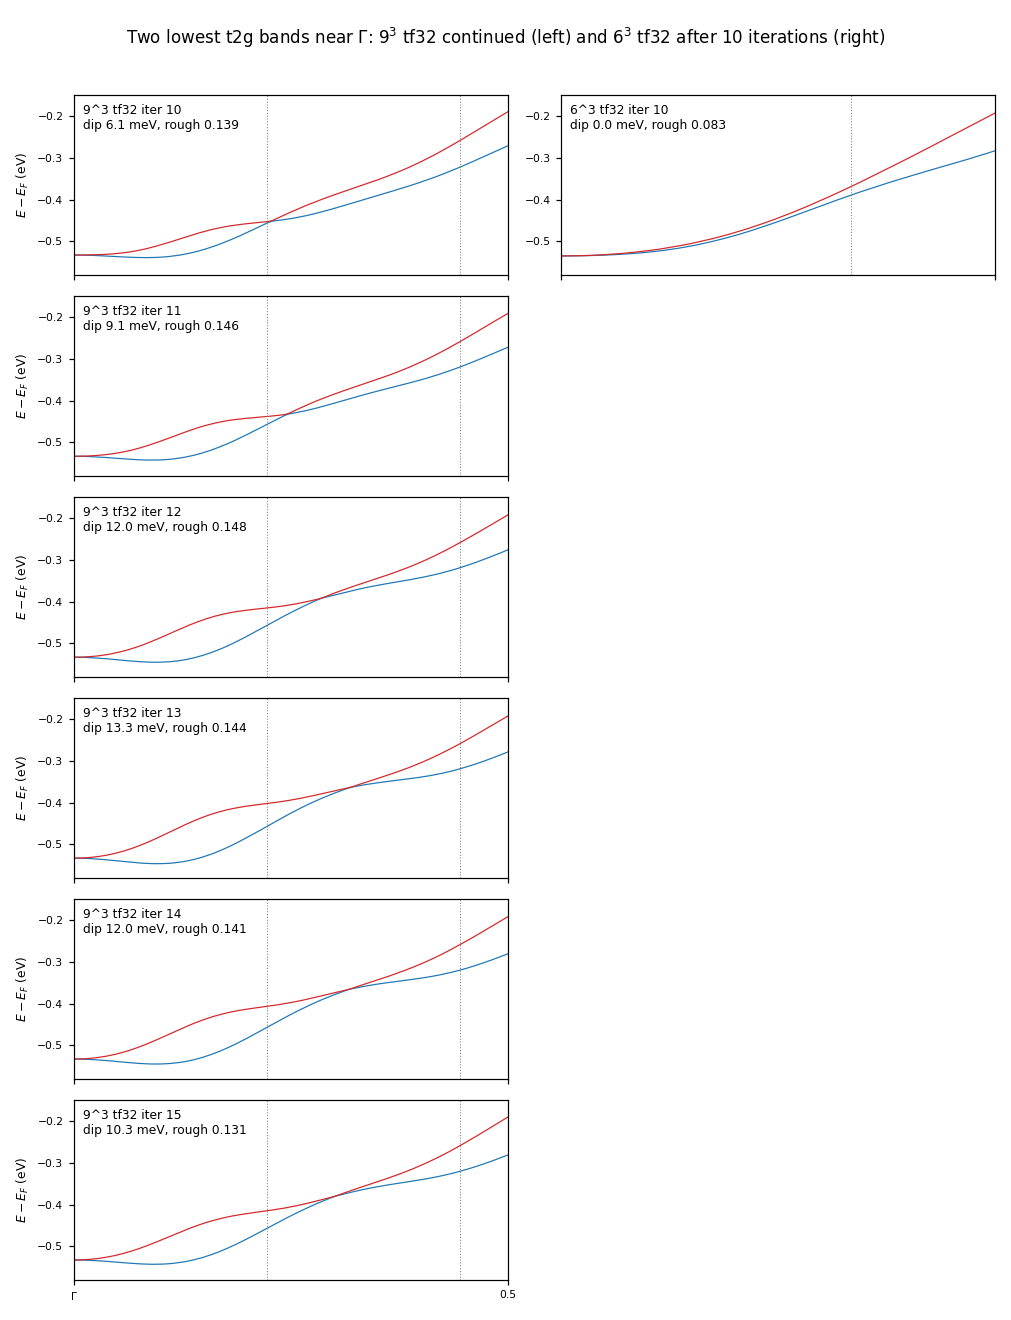
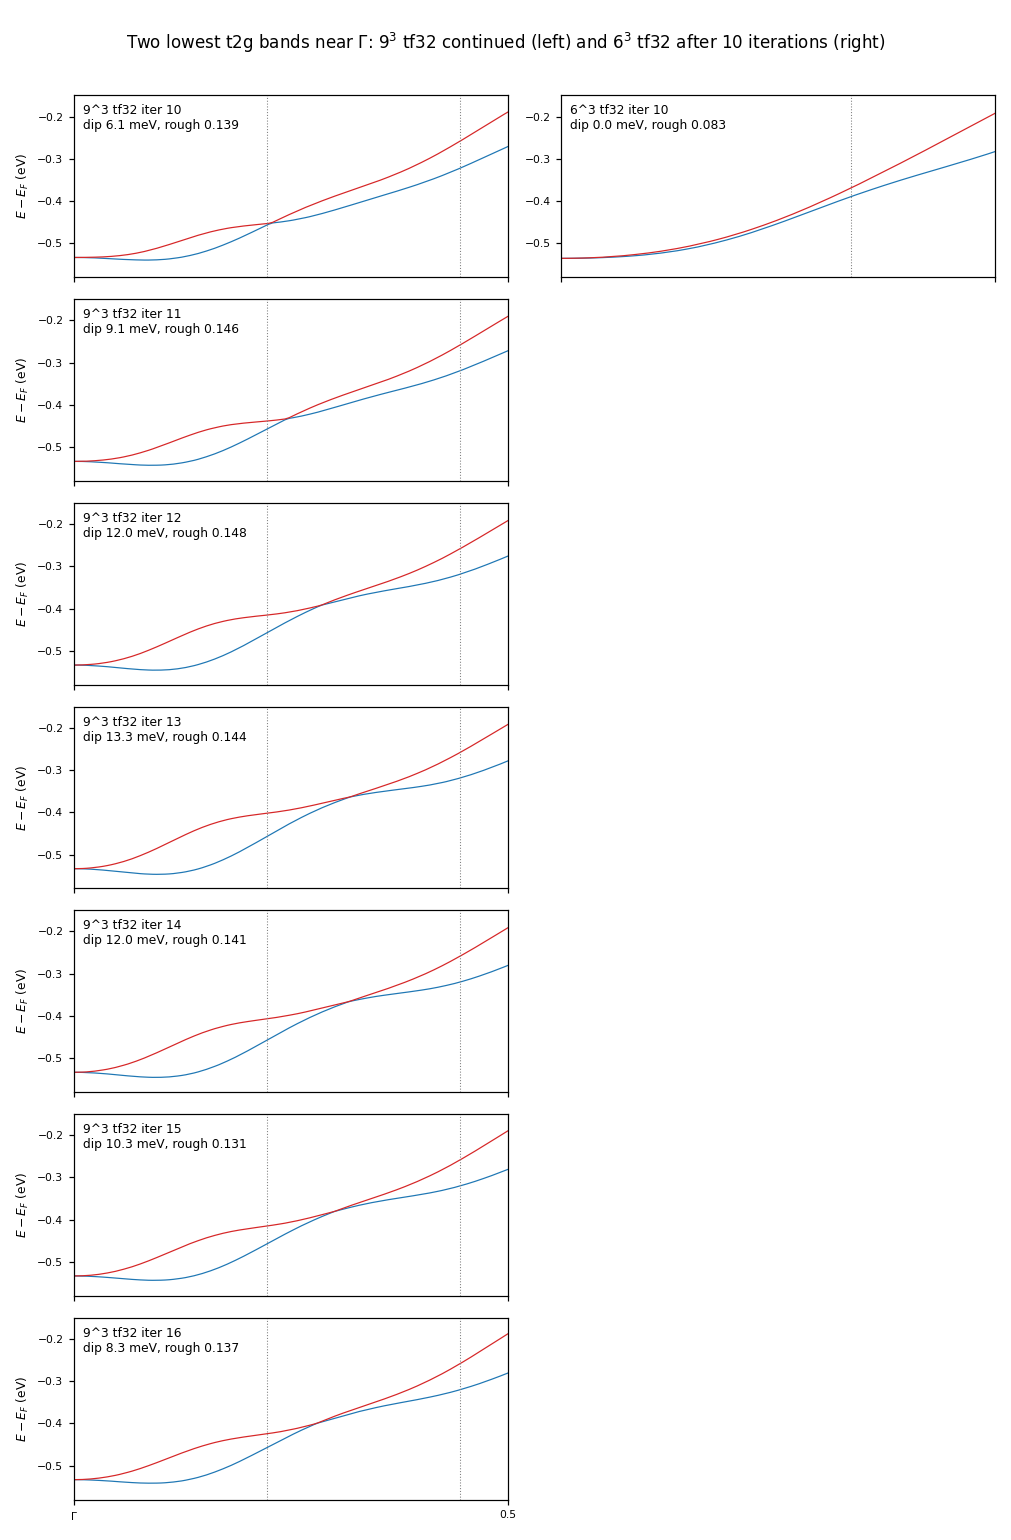
kBT_research: 9^3 continuation iteration 16 (the occupied pair approaches the 6^3 shape; the 1 eV bump stays)

diff --git a/Samples/kBT/kBT_research.md b/Samples/kBT/kBT_research.md
@@ -83,6 +83,12 @@
 
 （夜の TODO: 6³・9³ の tf32 の収束、FP16 の確かめ (a)〜(c)、検証、kBT の残り、ファイルの統一、速さの残り、文書の整理）
 
+### 05:49 **9³ の続き、反復 16: 占有の 2 本は 6³ の形に近づく（沈み込み 8.3 meV、2/9 の差 31 meV、1/3 の差 10.5 meV で交差がほどけつつある）。1 eV の空のバンドのこぶ（1.107 eV）は変わらない**
+
+- 反復 16（05:46 に終わり、1262 秒）: ehf −109763.128154 eV（15 から −0.083 eV）。15→16 の占有の 2 本の変化 最大 9.6・rms 4.2 meV、t2g 全体 rms 1.9 meV
+- 2 本の差（反復 14 / 15 / 16）: x = 2/9 で 49.0 / 40.7 / 31.2 meV、1/3 で 4.8 / 7.5 / 10.5、4/9 で 60.1 / 60.4 / 60.7。6³ は 2/9 で 7.6、1/3 で 20.4
+- 図 03:53-1 と d 全体の図（`liti2o4_d_k6_it10_vs_k9_latest.png`、反復ごとに上書き）を更新した
+
 ### 05:37 **全体と d 全体の図（9³ 反復 15 と 6³ 反復 10）: 9³ のうねりは t2g だけでなく eg 側にもある**（user「全体見せて」「d 全体見せて」）
 
 ![whole](LiTi2O4/liti2o4_k6_it10_vs_k9_it15.png)
